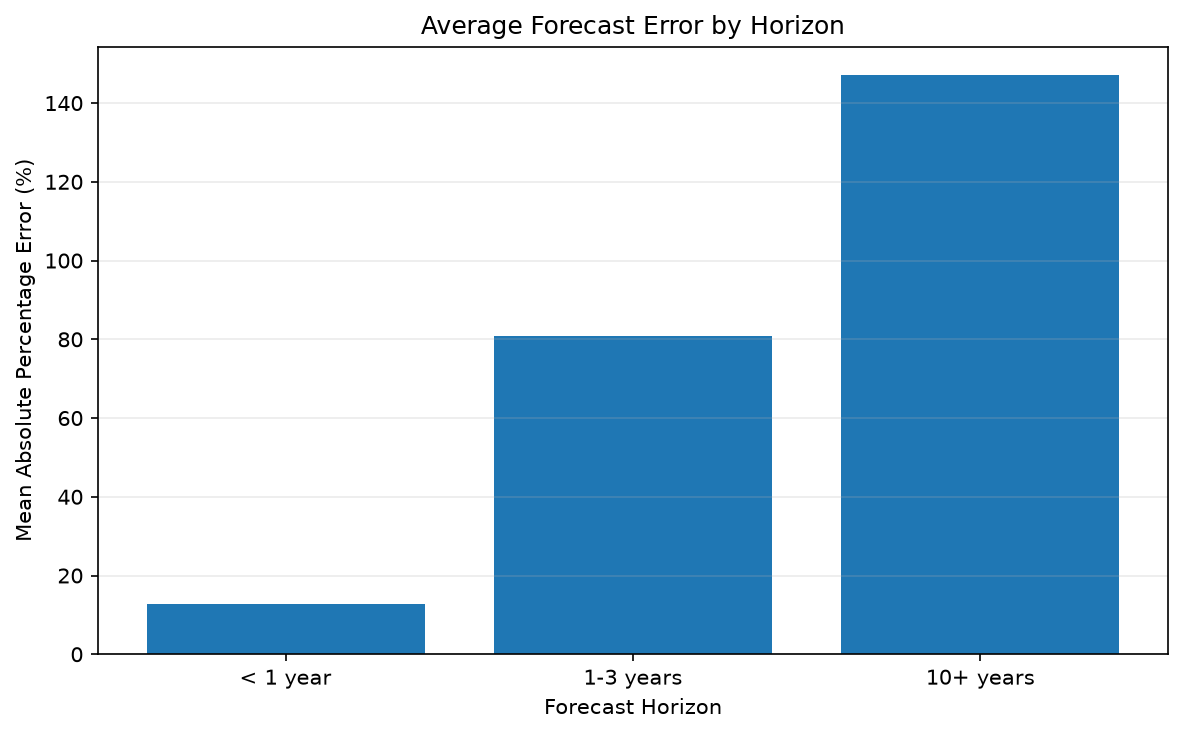
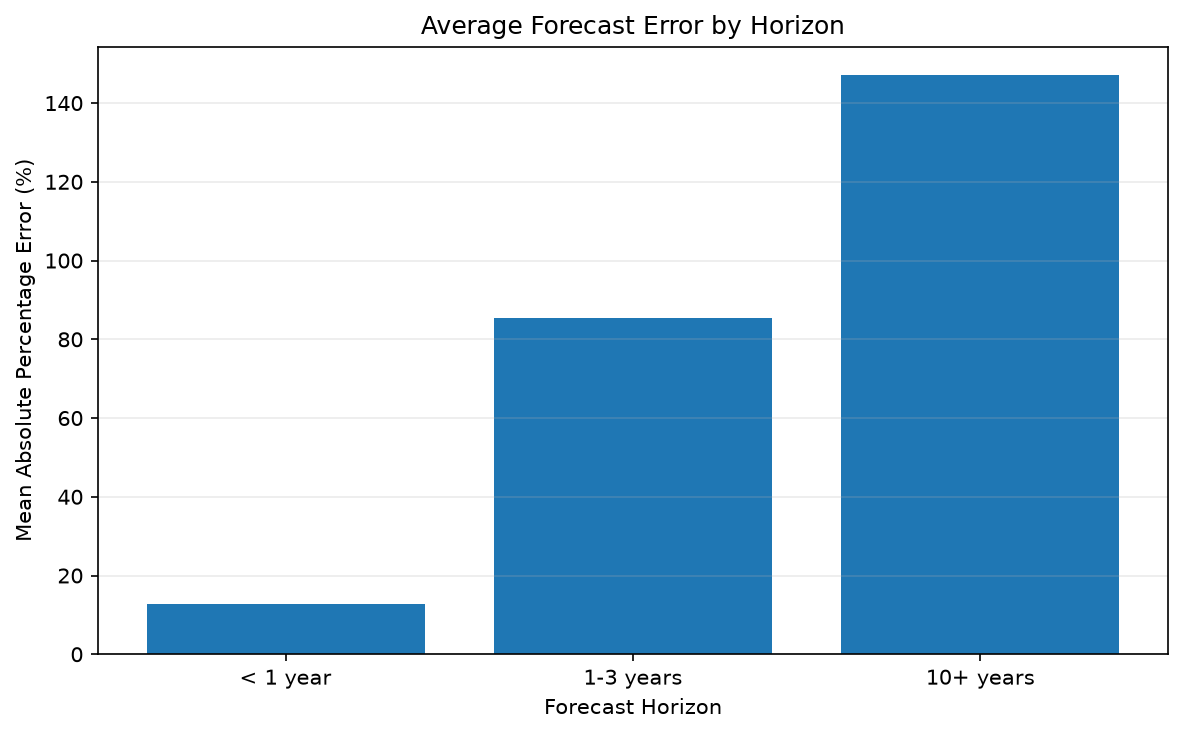
Expand forecast and policy evidence datasets

Changed region(s): [[0.3956, 0.4196, 0.6695, 0.4796]]

diff --git a/reports/output/forecasts_vs_facts.html b/reports/output/forecasts_vs_facts.html
@@ -68,13 +68,13 @@ nav a {
 <p>Comparing documented forecasts with observed outcomes</p>
 <h2>Summary</h2>
 <ul>
-<li>Total comparisons: 23</li>
-<li>Quantitative point forecasts: 19</li>
+<li>Total comparisons: 32</li>
+<li>Quantitative point forecasts: 28</li>
 <li>Categories: 3</li>
 </ul>
 <h3>Forecast Types</h3>
 <ul>
-<li>forecast: 20</li>
+<li>forecast: 29</li>
 <li>roadmap: 2</li>
 <li>policy_target: 1</li>
 </ul>
@@ -108,9 +108,9 @@ categories and forecast horizons.</p>
 </tr>
 <tr>
 <td>1–3 years</td>
-<td style="text-align: right;">11</td>
-<td style="text-align: right;">80.82%</td>
-<td style="text-align: right;">21.43%</td>
+<td style="text-align: right;">20</td>
+<td style="text-align: right;">85.42%</td>
+<td style="text-align: right;">36.32%</td>
 </tr>
 <tr>
 <td>&lt; 1 year</td>
@@ -172,18 +172,18 @@ categories and forecast horizons.</p>
 <td>2022-12-31</td>
 <td>13 months</td>
 <td style="text-align: right;">3.50</td>
-<td style="text-align: right;">3.60</td>
-<td style="text-align: right;">2.86%</td>
+<td style="text-align: right;">3.50</td>
+<td style="text-align: right;">0.00%</td>
 </tr>
 <tr>
-<td>Global renewable capacity additions</td>
+<td>US unemployment rate</td>
 <td>forecast</td>
-<td>2021-05-11</td>
-<td>2021-12-31</td>
-<td>8 months</td>
-<td style="text-align: right;">270.00</td>
-<td style="text-align: right;">290.00</td>
-<td style="text-align: right;">7.41%</td>
+<td>2021-12-15</td>
+<td>2022-12-31</td>
+<td>13 months</td>
+<td style="text-align: right;">3.50</td>
+<td style="text-align: right;">3.60</td>
+<td style="text-align: right;">2.86%</td>
 </tr>
 </tbody>
 </table>
@@ -223,6 +223,26 @@ categories and forecast horizons.</p>
 <td style="text-align: right;">236.90%</td>
 </tr>
 <tr>
+<td>US real GDP growth</td>
+<td>forecast</td>
+<td>2019-12-11</td>
+<td>2020-12-31</td>
+<td>13 months</td>
+<td style="text-align: right;">2.00</td>
+<td style="text-align: right;">-2.40</td>
+<td style="text-align: right;">220.00%</td>
+</tr>
+<tr>
+<td>US PCE inflation</td>
+<td>forecast</td>
+<td>2020-12-16</td>
+<td>2021-12-31</td>
+<td>12 months</td>
+<td style="text-align: right;">1.80</td>
+<td style="text-align: right;">5.70</td>
+<td style="text-align: right;">216.67%</td>
+</tr>
+<tr>
 <td>US PCE inflation</td>
 <td>forecast</td>
 <td>2021-12-15</td>
@@ -231,26 +251,6 @@ categories and forecast horizons.</p>
 <td style="text-align: right;">2.60</td>
 <td style="text-align: right;">5.70</td>
 <td style="text-align: right;">119.23%</td>
-</tr>
-<tr>
-<td>US real GDP growth</td>
-<td>forecast</td>
-<td>2021-12-15</td>
-<td>2022-12-31</td>
-<td>13 months</td>
-<td style="text-align: right;">4.00</td>
-<td style="text-align: right;">0.90</td>
-<td style="text-align: right;">77.50%</td>
-</tr>
-<tr>
-<td>US real GDP growth</td>
-<td>forecast</td>
-<td>2023-12-13</td>
-<td>2024-12-31</td>
-<td>13 months</td>
-<td style="text-align: right;">1.40</td>
-<td style="text-align: right;">2.40</td>
-<td style="text-align: right;">71.43%</td>
 </tr>
 </tbody>
 </table>
@@ -267,9 +267,9 @@ categories and forecast horizons.</p>
 <tbody>
 <tr>
 <td>forecast</td>
-<td style="text-align: right;">17</td>
-<td style="text-align: right;">56.77%</td>
-<td style="text-align: right;">18.69%</td>
+<td style="text-align: right;">26</td>
+<td style="text-align: right;">68.63%</td>
+<td style="text-align: right;">26.66%</td>
 </tr>
 <tr>
 <td>roadmap</td>
@@ -571,6 +571,114 @@ categories and forecast horizons.</p>
 <td style="text-align: right;">61.60</td>
 <td style="text-align: right;">208.00%</td>
 <td>threshold_met</td>
+</tr>
+<tr>
+<td>economics</td>
+<td>forecast</td>
+<td>US real GDP growth</td>
+<td>2019-12-11</td>
+<td>2020-12-31</td>
+<td>13 months</td>
+<td style="text-align: right;">2.00</td>
+<td style="text-align: right;">-2.40</td>
+<td style="text-align: right;">-220.00%</td>
+<td>actual_below_forecast</td>
+</tr>
+<tr>
+<td>economics</td>
+<td>forecast</td>
+<td>US unemployment rate</td>
+<td>2019-12-11</td>
+<td>2020-12-31</td>
+<td>13 months</td>
+<td style="text-align: right;">3.50</td>
+<td style="text-align: right;">6.70</td>
+<td style="text-align: right;">91.43%</td>
+<td>actual_above_forecast</td>
+</tr>
+<tr>
+<td>economics</td>
+<td>forecast</td>
+<td>US PCE inflation</td>
+<td>2019-12-11</td>
+<td>2020-12-31</td>
+<td>13 months</td>
+<td style="text-align: right;">1.90</td>
+<td style="text-align: right;">1.20</td>
+<td style="text-align: right;">-36.84%</td>
+<td>actual_below_forecast</td>
+</tr>
+<tr>
+<td>economics</td>
+<td>forecast</td>
+<td>US real GDP growth</td>
+<td>2020-12-16</td>
+<td>2021-12-31</td>
+<td>12 months</td>
+<td style="text-align: right;">4.20</td>
+<td style="text-align: right;">5.70</td>
+<td style="text-align: right;">35.71%</td>
+<td>actual_above_forecast</td>
+</tr>
+<tr>
+<td>economics</td>
+<td>forecast</td>
+<td>US unemployment rate</td>
+<td>2020-12-16</td>
+<td>2021-12-31</td>
+<td>12 months</td>
+<td style="text-align: right;">5.00</td>
+<td style="text-align: right;">3.90</td>
+<td style="text-align: right;">-22.00%</td>
+<td>actual_below_forecast</td>
+</tr>
+<tr>
+<td>economics</td>
+<td>forecast</td>
+<td>US PCE inflation</td>
+<td>2020-12-16</td>
+<td>2021-12-31</td>
+<td>12 months</td>
+<td style="text-align: right;">1.80</td>
+<td style="text-align: right;">5.70</td>
+<td style="text-align: right;">216.67%</td>
+<td>actual_above_forecast</td>
+</tr>
+<tr>
+<td>economics</td>
+<td>forecast</td>
+<td>US real GDP growth</td>
+<td>2021-12-15</td>
+<td>2022-12-31</td>
+<td>13 months</td>
+<td style="text-align: right;">4.00</td>
+<td style="text-align: right;">0.90</td>
+<td style="text-align: right;">-77.50%</td>
+<td>actual_below_forecast</td>
+</tr>
+<tr>
+<td>economics</td>
+<td>forecast</td>
+<td>US unemployment rate</td>
+<td>2021-12-15</td>
+<td>2022-12-31</td>
+<td>13 months</td>
+<td style="text-align: right;">3.50</td>
+<td style="text-align: right;">3.50</td>
+<td style="text-align: right;">0.00%</td>
+<td>very_close</td>
+</tr>
+<tr>
+<td>economics</td>
+<td>forecast</td>
+<td>US PCE inflation</td>
+<td>2021-12-15</td>
+<td>2022-12-31</td>
+<td>13 months</td>
+<td style="text-align: right;">2.60</td>
+<td style="text-align: right;">5.70</td>
+<td style="text-align: right;">119.23%</td>
+<td>actual_above_forecast</td>
 </tr>
 </tbody>
 </table>

diff --git a/reports/output/decisions_vs_outcomes.html b/reports/output/decisions_vs_outcomes.html
@@ -68,7 +68,7 @@ nav a {
 <p>Comparing claims made during major policy debates with measurable outcomes observed afterward</p>
 <h2>Summary</h2>
 <ul>
-<li>Decisions analyzed: 7</li>
+<li>Decisions analyzed: 12</li>
 <li>Categories: 4</li>
 <li>Jurisdictions: 4</li>
 </ul>
@@ -162,6 +162,56 @@ coverage across policy categories and types of claims.</p>
 <td>2024-08-29</td>
 <td>1.0 years</td>
 <td>Expansion was expected to reduce road-transport emissions and improve roadside air quality across outer London.</td>
+<td>4.80 percent reduction</td>
+<td>high</td>
+</tr>
+<tr>
+<td>public_health_policy</td>
+<td>Introduce minimum unit pricing for alcohol</td>
+<td>2018-05-01</td>
+<td>2021-12-31</td>
+<td>3.7 years</td>
+<td>Pre-implementation modelling expected alcohol consumption to decline after minimum unit pricing.</td>
+<td>3.50 percent reduction</td>
+<td>high</td>
+</tr>
+<tr>
+<td>public_health_policy</td>
+<td>Introduce minimum unit pricing for alcohol</td>
+<td>2018-05-01</td>
+<td>2020-12-31</td>
+<td>2.7 years</td>
+<td>Modelling projected a reduction in alcohol-attributable mortality after implementation.</td>
+<td>13.40 percent reduction</td>
+<td>high</td>
+</tr>
+<tr>
+<td>public_health_policy</td>
+<td>Introduce the Soft Drinks Industry Levy</td>
+<td>2016-03-16</td>
+<td>2020-12-31</td>
+<td>4.8 years</td>
+<td>The levy was intended to encourage manufacturers to reformulate drinks and reduce sugar content.</td>
+<td>46.00 percent reduction</td>
+<td>high</td>
+</tr>
+<tr>
+<td>fiscal_policy</td>
+<td>Introduce the Soft Drinks Industry Levy</td>
+<td>2016-03-16</td>
+<td>2019-03-31</td>
+<td>3.0 years</td>
+<td>Budget 2016 expected the levy to raise about £520 million in its first full year.</td>
+<td>240.00 GBP million</td>
+<td>medium</td>
+</tr>
+<tr>
+<td>environment_policy</td>
+<td>Expand ULEZ across all London boroughs</td>
+<td>2023-08-29</td>
+<td>2024-08-29</td>
+<td>1.0 years</td>
+<td>Expansion was expected to reduce transport emissions and improve roadside air quality.</td>
 <td>4.80 percent reduction</td>
 <td>high</td>
 </tr>

diff --git a/reports/output/forecasts_vs_facts.md b/reports/output/forecasts_vs_facts.md
@@ -4,13 +4,13 @@ Comparing documented forecasts with observed outcomes
 
 ## Summary
 
-- Total comparisons: 23
-- Quantitative point forecasts: 19
+- Total comparisons: 32
+- Quantitative point forecasts: 28
 - Categories: 3
 
 ### Forecast Types
 
-- forecast: 20
+- forecast: 29
 - roadmap: 2
 - policy_target: 1
 
@@ -39,7 +39,7 @@ categories and forecast horizons.
 | Horizon | Forecasts | Mean Absolute Error | Median Absolute Error |
 |---|---:|---:|---:|
 | 10+ years | 2 | 147.02% | 147.02% |
-| 1–3 years | 11 | 80.82% | 21.43% |
+| 1–3 years | 20 | 85.42% | 36.32% |
 | < 1 year | 6 | 12.66% | 12.99% |
 
 ## Closest Forecasts
@@ -49,8 +49,8 @@ categories and forecast horizons.
 | Global electric car sales | forecast | 2023-04-26 | 2023-12-31 | 8 months | 14.00 | 14.00 | 0.00% |
 | US unemployment rate | forecast | 2023-12-13 | 2024-12-31 | 13 months | 4.10 | 4.10 | 0.00% |
 | Global electric car sales | forecast | 2024-04-23 | 2024-12-31 | 8 months | 17.00 | 17.00 | 0.00% |
+| US unemployment rate | forecast | 2021-12-15 | 2022-12-31 | 13 months | 3.50 | 3.50 | 0.00% |
 | US unemployment rate | forecast | 2021-12-15 | 2022-12-31 | 13 months | 3.50 | 3.60 | 2.86% |
-| Global renewable capacity additions | forecast | 2021-05-11 | 2021-12-31 | 8 months | 270.00 | 290.00 | 7.41% |
 
 ## Biggest Misses
 
@@ -58,15 +58,15 @@ categories and forecast horizons.
 |---|---|---|---|---|---:|---:|---:|
 | US real GDP growth | forecast | 2022-12-14 | 2023-12-31 | 13 months | 0.50 | 3.10 | 520.00% |
 | Global cumulative solar PV capacity | roadmap | 2010-05-10 | 2020-12-31 | 10.6 years | 210.00 | 707.50 | 236.90% |
+| US real GDP growth | forecast | 2019-12-11 | 2020-12-31 | 13 months | 2.00 | -2.40 | 220.00% |
+| US PCE inflation | forecast | 2020-12-16 | 2021-12-31 | 12 months | 1.80 | 5.70 | 216.67% |
 | US PCE inflation | forecast | 2021-12-15 | 2022-12-31 | 13 months | 2.60 | 5.70 | 119.23% |
-| US real GDP growth | forecast | 2021-12-15 | 2022-12-31 | 13 months | 4.00 | 0.90 | 77.50% |
-| US real GDP growth | forecast | 2023-12-13 | 2024-12-31 | 13 months | 1.40 | 2.40 | 71.43% |
 
 ## Accuracy by Forecast Type
 
 | Forecast Type | Forecasts | Mean Absolute Error | Median Absolute Error |
 |---|---:|---:|---:|
-| forecast | 17 | 56.77% | 18.69% |
+| forecast | 26 | 68.63% | 26.66% |
 | roadmap | 2 | 147.02% | 147.02% |
 
 ## All Forecasts vs Facts
@@ -96,6 +96,15 @@ categories and forecast horizons.
 | technology_energy | roadmap | Global EV/PHEV annual sales | 2009-10-11 | 2020-12-31 | 11.2 years | 7.00 | 3.00 | -57.14% | actual_below_forecast |
 | technology_energy | roadmap | Global cumulative solar PV capacity | 2010-05-10 | 2020-12-31 | 10.6 years | 210.00 | 707.50 | 236.90% | actual_above_forecast |
 | policy_energy | policy_target | India solar power capacity | 2010-01-11 | 2022-12-31 | 13.0 years | > 20.00 | 61.60 | 208.00% | threshold_met |
+| economics | forecast | US real GDP growth | 2019-12-11 | 2020-12-31 | 13 months | 2.00 | -2.40 | -220.00% | actual_below_forecast |
+| economics | forecast | US unemployment rate | 2019-12-11 | 2020-12-31 | 13 months | 3.50 | 6.70 | 91.43% | actual_above_forecast |
+| economics | forecast | US PCE inflation | 2019-12-11 | 2020-12-31 | 13 months | 1.90 | 1.20 | -36.84% | actual_below_forecast |
+| economics | forecast | US real GDP growth | 2020-12-16 | 2021-12-31 | 12 months | 4.20 | 5.70 | 35.71% | actual_above_forecast |
+| economics | forecast | US unemployment rate | 2020-12-16 | 2021-12-31 | 12 months | 5.00 | 3.90 | -22.00% | actual_below_forecast |
+| economics | forecast | US PCE inflation | 2020-12-16 | 2021-12-31 | 12 months | 1.80 | 5.70 | 216.67% | actual_above_forecast |
+| economics | forecast | US real GDP growth | 2021-12-15 | 2022-12-31 | 13 months | 4.00 | 0.90 | -77.50% | actual_below_forecast |
+| economics | forecast | US unemployment rate | 2021-12-15 | 2022-12-31 | 13 months | 3.50 | 3.50 | 0.00% | very_close |
+| economics | forecast | US PCE inflation | 2021-12-15 | 2022-12-31 | 13 months | 2.60 | 5.70 | 119.23% | actual_above_forecast |
 
 ---
 Generated by Analytics Platform

diff --git a/reports/output/decisions_vs_outcomes.md b/reports/output/decisions_vs_outcomes.md
@@ -4,7 +4,7 @@ Comparing claims made during major policy debates with measurable outcomes obser
 
 ## Summary
 
-- Decisions analyzed: 7
+- Decisions analyzed: 12
 - Categories: 4
 - Jurisdictions: 4
 
@@ -34,6 +34,11 @@ coverage across policy categories and types of claims.
 | public_health_policy | Introduce the Soft Drinks Industry Levy | 2016-03-16 | 2020-12-31 | 4.8 years | The levy was designed to encourage manufacturers to reformulate drinks and reduce sugar content. | 46.00 percent reduction | high |
 | fiscal_policy | Introduce the Soft Drinks Industry Levy | 2016-03-16 | 2019-03-31 | 3.0 years | Budget 2016 expected the Soft Drinks Industry Levy to raise about £520 million in its first full year. | 240.00 GBP million | medium |
 | environment_policy | Expand ULEZ across all London boroughs | 2023-08-29 | 2024-08-29 | 1.0 years | Expansion was expected to reduce road-transport emissions and improve roadside air quality across outer London. | 4.80 percent reduction | high |
+| public_health_policy | Introduce minimum unit pricing for alcohol | 2018-05-01 | 2021-12-31 | 3.7 years | Pre-implementation modelling expected alcohol consumption to decline after minimum unit pricing. | 3.50 percent reduction | high |
+| public_health_policy | Introduce minimum unit pricing for alcohol | 2018-05-01 | 2020-12-31 | 2.7 years | Modelling projected a reduction in alcohol-attributable mortality after implementation. | 13.40 percent reduction | high |
+| public_health_policy | Introduce the Soft Drinks Industry Levy | 2016-03-16 | 2020-12-31 | 4.8 years | The levy was intended to encourage manufacturers to reformulate drinks and reduce sugar content. | 46.00 percent reduction | high |
+| fiscal_policy | Introduce the Soft Drinks Industry Levy | 2016-03-16 | 2019-03-31 | 3.0 years | Budget 2016 expected the levy to raise about £520 million in its first full year. | 240.00 GBP million | medium |
+| environment_policy | Expand ULEZ across all London boroughs | 2023-08-29 | 2024-08-29 | 1.0 years | Expansion was expected to reduce transport emissions and improve roadside air quality. | 4.80 percent reduction | high |
 
 ## Interpretation Principle
 
